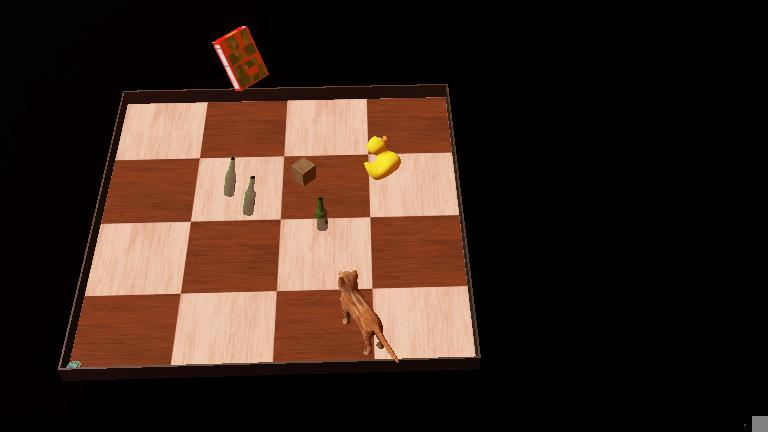
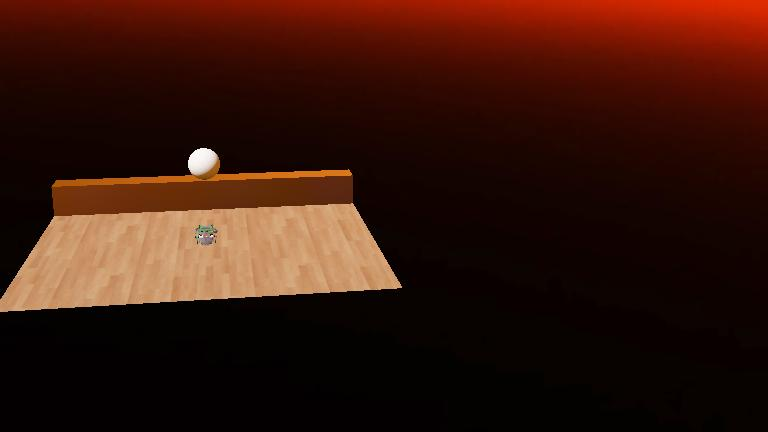
Replaced the arena and existing objects with a new floor and solid objects. Updated readme.

diff --git a/README.md b/README.md
@@ -3,18 +3,19 @@ Personal repository of trials and tests for the Devnut X PMDS AGV project
 
 ## Summary of files added/edited recently
 Reverse chronological order of last update
-- Folder: my_first_simulation (20 Feb 2025)
-    - File: Proj_controller_my_controller_v1.py (20 Feb 2025)
-        - Added a GPS sensor to the robot to get its position in the world. Removed the distance sensor since it's now useless. Added a very basic algorithm that goes to a set target point and then exits the simulation after printing it has reached the target.
-        - Added a lidar sensor to the robot with no use atm other than printing some information it records. Better obstacle avoidance implemented thanks to the lidar which has a much greater FOV (field of view–currently set at ~180 degrees) than the distance sensor, as well as an array of distances to represent the sorrounding space.
-        - Added a controller that is pretty much the exact same as the one we use in the official project for me to experiment on this world. The controller makes the robot go forward until it detects an obstacle with the distance sensor, then it stops and turns left with decreased linear speed (from 0.4 m/s to 0.2 m/s) at a angular speed of 5 rad/s until the recorded distance becomes higher than a set value (600 ~~ 60cm). The deceleration starts a tad earlier than the turn (700 ~~ 70cm) where the robot starts decelrating at a constant acceleration for a set time (OBSTACLE_DECELERATION_TIME), the same time is then "used" for the robot to accelerate back to cruise speed after the turn has been made until cruise speed is reached.
-    - File: my_first_simulation.wbt (13 Feb 2025)
+- Folder: my_first_simulation (26 Feb 2025)
+    - File: my_first_simulation.wbt (26 Feb 2025)
+        - Replaced the tutorial arena with a new custom one with a sphere and a side wall, all using the solid node and "practicing" with the DEF-USE mechanism defined in the tutorial 2 (https://cyberbotics.com/doc/guide/tutorial-2-modification-of-the-environment) that we will use in the project to set up the ambient of the warehouse.
         - Changed devices (sensor and robots) charateristics to better fit the project's requirements and the logic implemented in the controller.
         - Added simple world following tutorial 1 (https://cyberbotics.com/doc/guide/tutorial-1-your-first-simulation-in-webots?tab-language=python) in python (since it's the language we will use for the project) and added/modified some bits from the base tutorial to better familiarize myself with webots. Specifically: 
             - changed the view from mountains to "twilight_cloud_empty" for personal liking;
             - added a wooden crate (object subject to no forces, by default sticks to ground); 
             - added three beers (objects subject to physics and gravity) each one with a different weight to see the different behaviours when falling/being pushed by the robot;
             - added a cat, a rubber duck, a soccer ball and a cereal box for the "testing" of the robot's obstacle avoidance.
+    - File: Proj_controller_my_controller_v1.py (20 Feb 2025)
+        - Added a GPS sensor to the robot to get its position in the world. Removed the distance sensor since it's now useless. Added a very basic algorithm that goes to a set target point and then exits the simulation after printing it has reached the target.
+        - Added a lidar sensor to the robot with no use atm other than printing some information it records. Better obstacle avoidance implemented thanks to the lidar which has a much greater FOV (field of view–currently set at ~180 degrees) than the distance sensor, as well as an array of distances to represent the sorrounding space.
+        - Added a controller that is pretty much the exact same as the one we use in the official project for me to experiment on this world. The controller makes the robot go forward until it detects an obstacle with the distance sensor, then it stops and turns left with decreased linear speed (from 0.4 m/s to 0.2 m/s) at a angular speed of 5 rad/s until the recorded distance becomes higher than a set value (600 ~~ 60cm). The deceleration starts a tad earlier than the turn (700 ~~ 70cm) where the robot starts decelrating at a constant acceleration for a set time (OBSTACLE_DECELERATION_TIME), the same time is then "used" for the robot to accelerate back to cruise speed after the turn has been made until cruise speed is reached.
         - Created a 'first simulation' in webots following the tutorial on the documentation.
     - File: epuck_go_forward.py (1 Feb 2025)
         - Simple epuck controller based on tutorial, modified so that it makes the robot go forward for 5s and then starts turning with left wheel speed unchanged (50% of max speed) and right wheel speed at 1% of max speed, making the robot go in circles.
